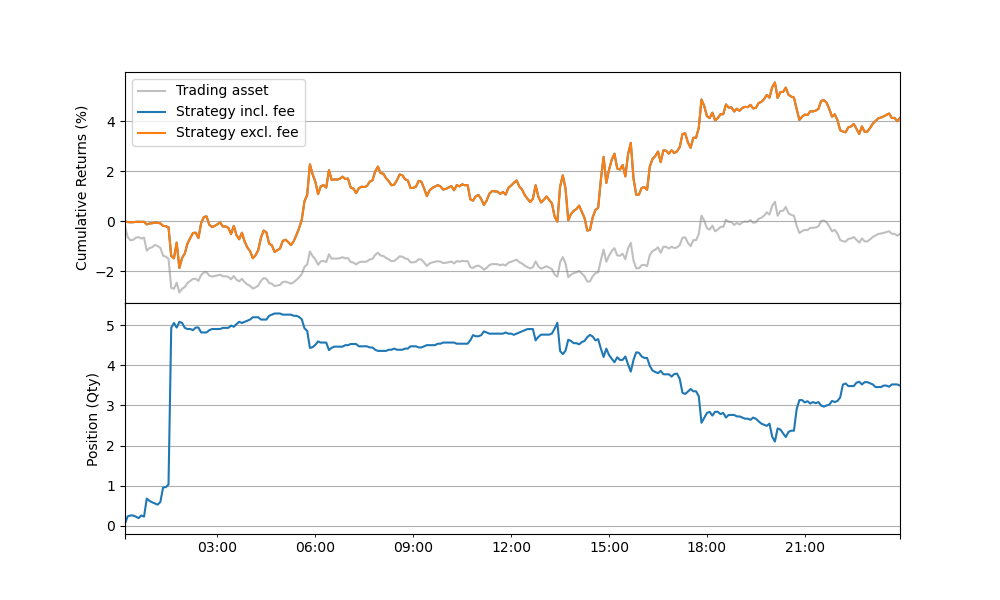
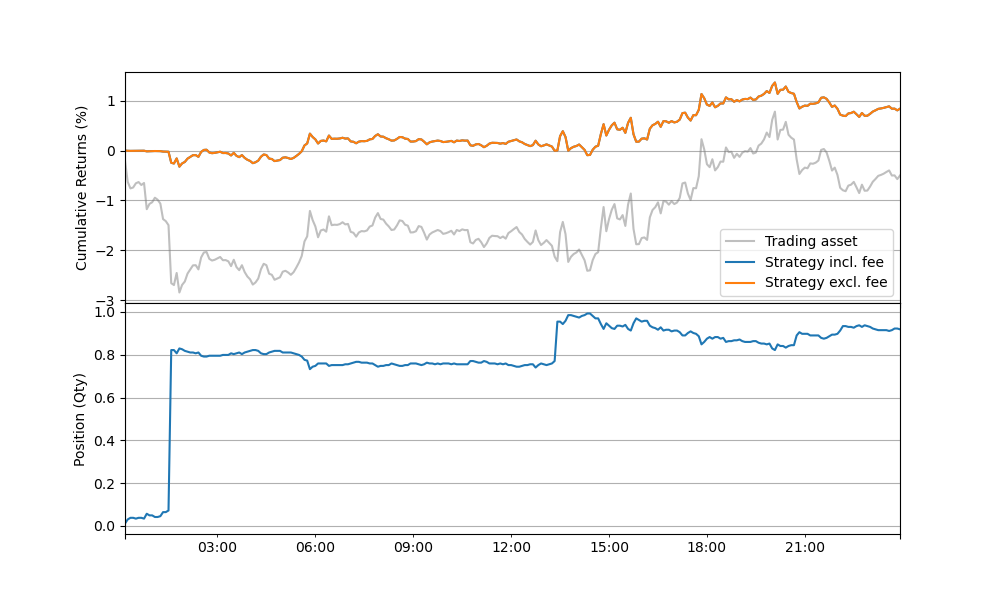
changed parameters and size skewing

diff --git a/mmtester/as_quoter.py b/mmtester/as_quoter.py
@@ -23,9 +23,12 @@ class ASQuoter(base_quoter.BaseQuoter):
         
     def compute(self, timestamp: pd.DatetimeIndex, strategy: exchange.BaseStrategy,
                 reserve_price: float, levels: int, spread: float)-> Tuple[List[order.Order], List[order.Order]]:
-        weights = np.exp(np.linspace(0, 1, levels)) * self.size_skew_factor
+        weights = np.arange(1, levels + 1, 1)
+        weights = np.power(self.size_skew_factor, weights)
         normalized_weights = weights / np.sum(weights)
-        sizes = (self.quote_size * normalized_weights)
+        
+        bid_sizes = (max(self.quote_size * 0.1, 1 - self.q) * normalized_weights)
+        ask_sizes = (max(self.quote_size * 0.1, 1 + self.q) * normalized_weights)
         spreads = np.power(self.price_skew_factor, np.linspace(0, levels-1, levels)) * spread
         bid_prices = np.round((reserve_price - spreads) * self.tick_multiplier) / self.tick_multiplier
         ask_prices = np.round((reserve_price + spreads) * self.tick_multiplier) / self.tick_multiplier
@@ -33,7 +36,7 @@ class ASQuoter(base_quoter.BaseQuoter):
         bids = []
         asks = []
         for i in range(levels):
-            bids.append(order.Order(timestamp, strategy.name, self.instrument, mm_enums.Side.BUY, bid_prices[i], sizes[i]))
-            asks.append(order.Order(timestamp, strategy.name, self.instrument, mm_enums.Side.SELL, ask_prices[i], sizes[i]))
+            bids.append(order.Order(timestamp, strategy.name, self.instrument, mm_enums.Side.BUY, bid_prices[i], bid_sizes[i]))
+            asks.append(order.Order(timestamp, strategy.name, self.instrument, mm_enums.Side.SELL, ask_prices[i], ask_sizes[i]))
         
         return (bids, asks)

diff --git a/mmtester/single_mm_strategy.py b/mmtester/single_mm_strategy.py
@@ -34,8 +34,10 @@ class SingleMMStrategy(exchange.BaseStrategy):
         if record is not None:
             if record.counter > 0 and (record.counter  % self.frequency == 0 or self.requote):
                 self.exchange.cancel_all(record.timestamp, self.name)
-                self.quoter.q = self.position.total_qty * 5.0 / self.position.initial_balance
-                self.quoter.tau = ((self.curr_step * self.frequency * self.data_frequency) % (self.total_time * 1000)) / (self.total_time * 1000)
+                self.quoter.q = self.position.total_qty / self.position.initial_balance
+                self.quoter.tau = ((self.curr_step * self.frequency * self.data_frequency) % (self.total_time * 1000)) 
+                self.quoter.tau /= (self.total_time * 1000)
+                self.quoter.tau = 1 - self.quoter.tau
                 (bids, asks) = self.quoter.quote(record.timestamp, self, 
                                                  record.get_instrument_data(self.instrument, "mid"), self.levels)
                 self.exchange.add_quotes(bids, asks)

diff --git a/sample.py b/sample.py
@@ -9,8 +9,8 @@ if __name__ == '__main__':
     df = pd.read_csv("./mmtester/data_generator/data/data.csv.gz", header=0, index_col=0, parse_dates=[0])
     exch = Exchange(500, 500)
     instr = InverseInstrument("perp", 0, 0.0005)
-    quoter = ASQuoter(instr, 0, 0.1, 2, 1, 0.05, 1.5, 1.5, 0.01, 0.01, 2)
-    strategy = SingleMMStrategy("test_strategy", quoter, 2, instr,  1800, 3, 240, df.shape[0])
+    quoter = ASQuoter(instr, 0, 0.2, 2, 1, 0.02, 2.5, 1.5, 0.01, 0.01, 2)
+    strategy = SingleMMStrategy("test_strategy", quoter, 2, instr, 3600, 5, 1600, df.shape[0])
     exch.register(strategy)
     exch.start(Data(df, 500))
     
